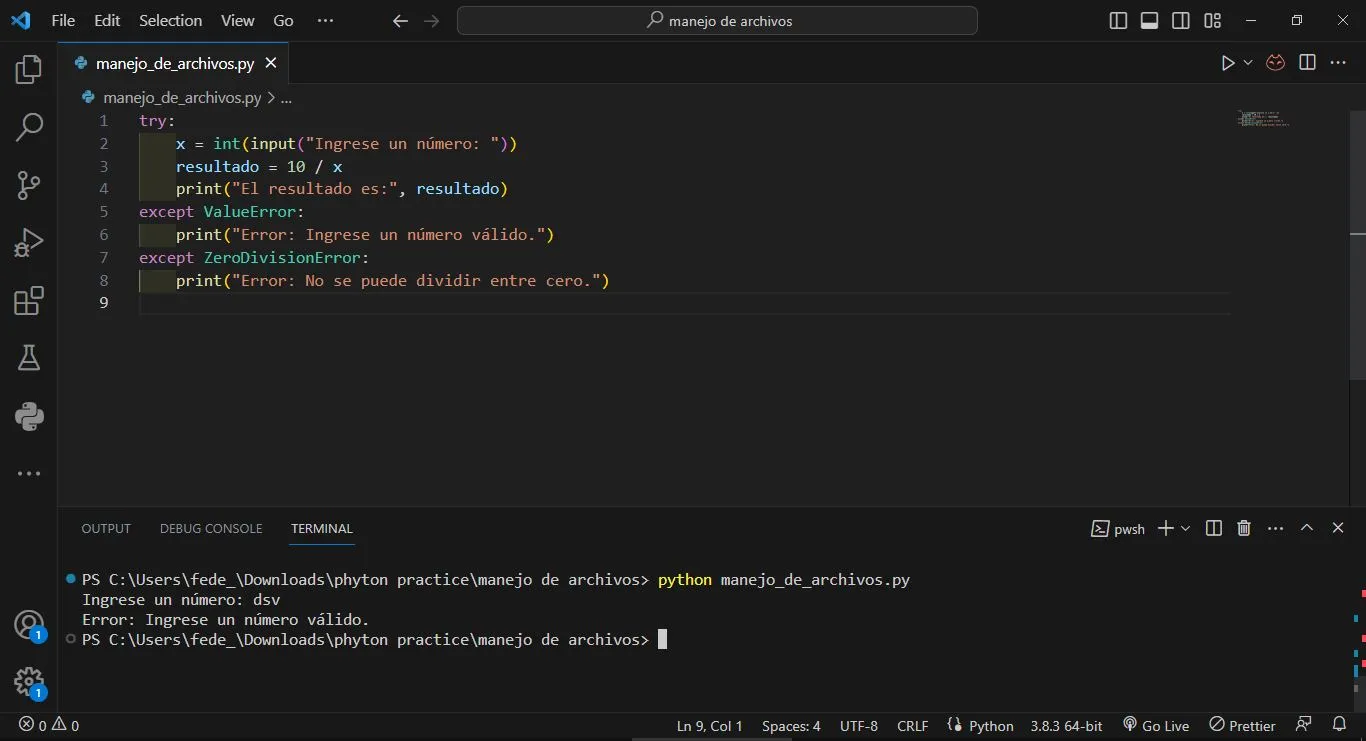
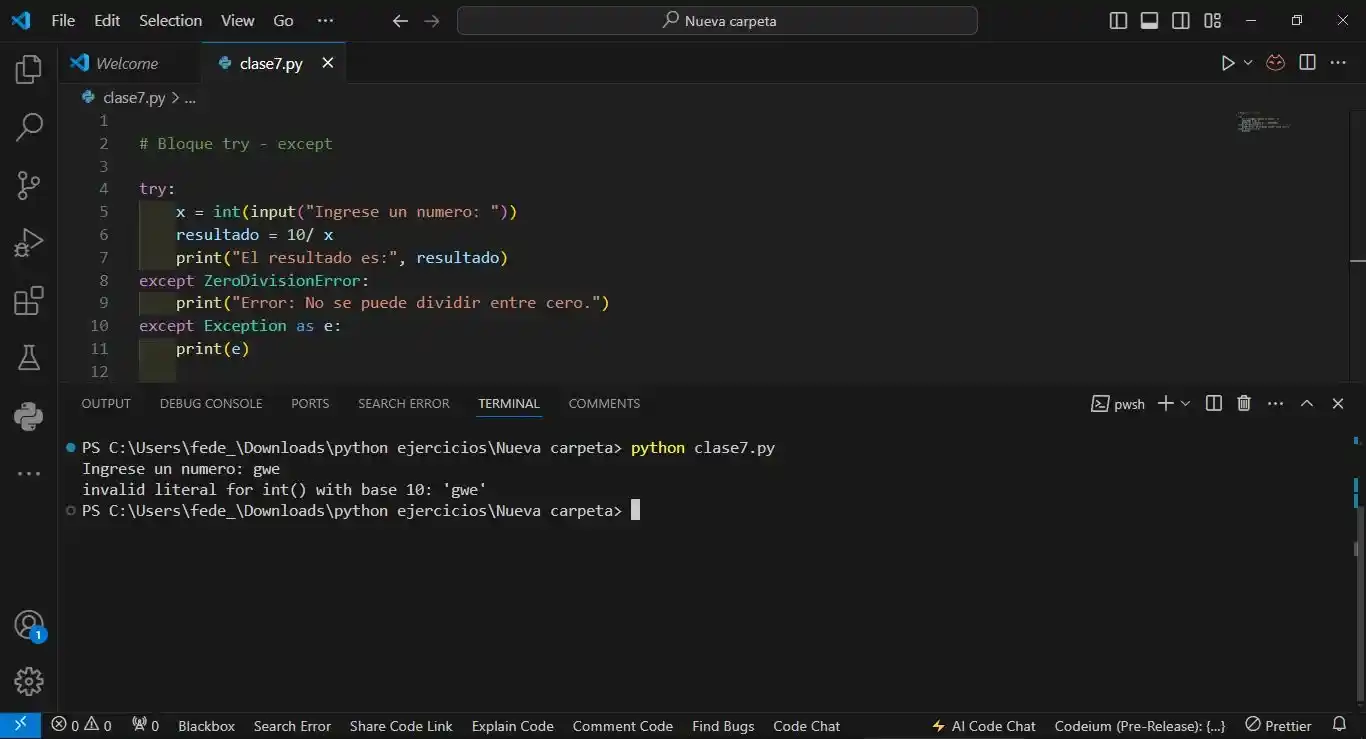
add img/code in class7 try-except

diff --git a/src/components/Class/classCode.js b/src/components/Class/classCode.js
@@ -1520,18 +1520,16 @@ print(z)
 # FileNotFoundError
 file = open("archivo.txt", "r")
 `,
-`
-# Bloque try - except
+`# Bloque try - except
 
 try:
     x = int(input("Ingrese un numero: "))
     resultado = 10/ x
     print("El resultado es:", resultado)
-except ValueError:
-    print("Error: Ingrese un número válido.")
 except ZeroDivisionError:
     print("Error: No se puede dividir entre cero.")
-
+except Exception as e:
+    print(e)
 `,
 `
 # Bloque else
